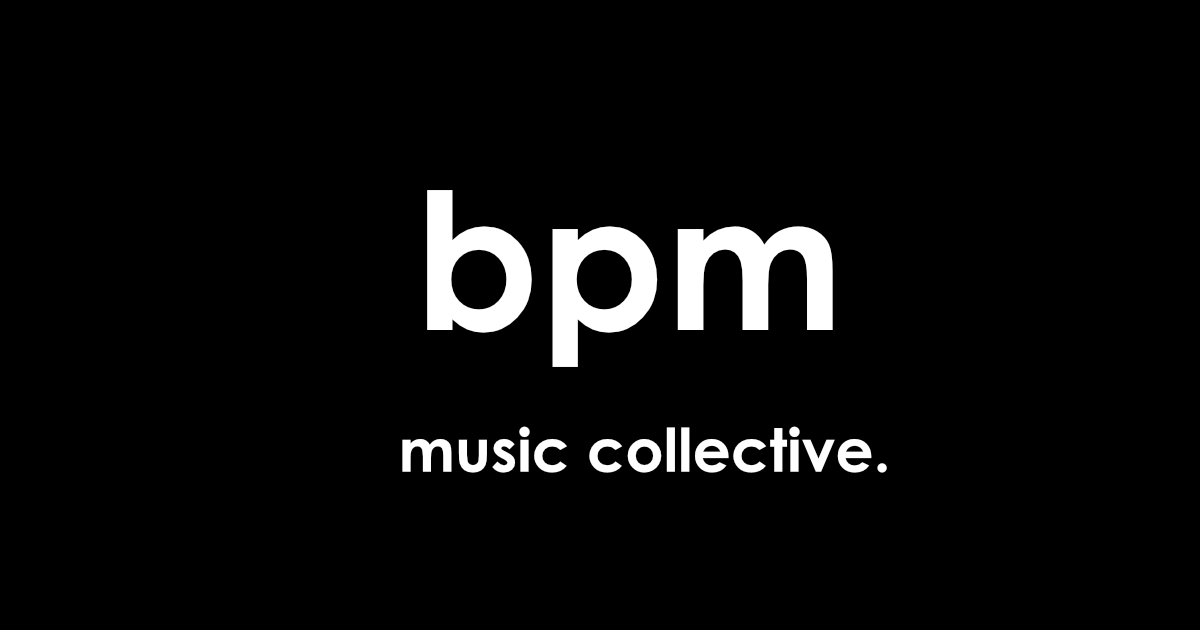
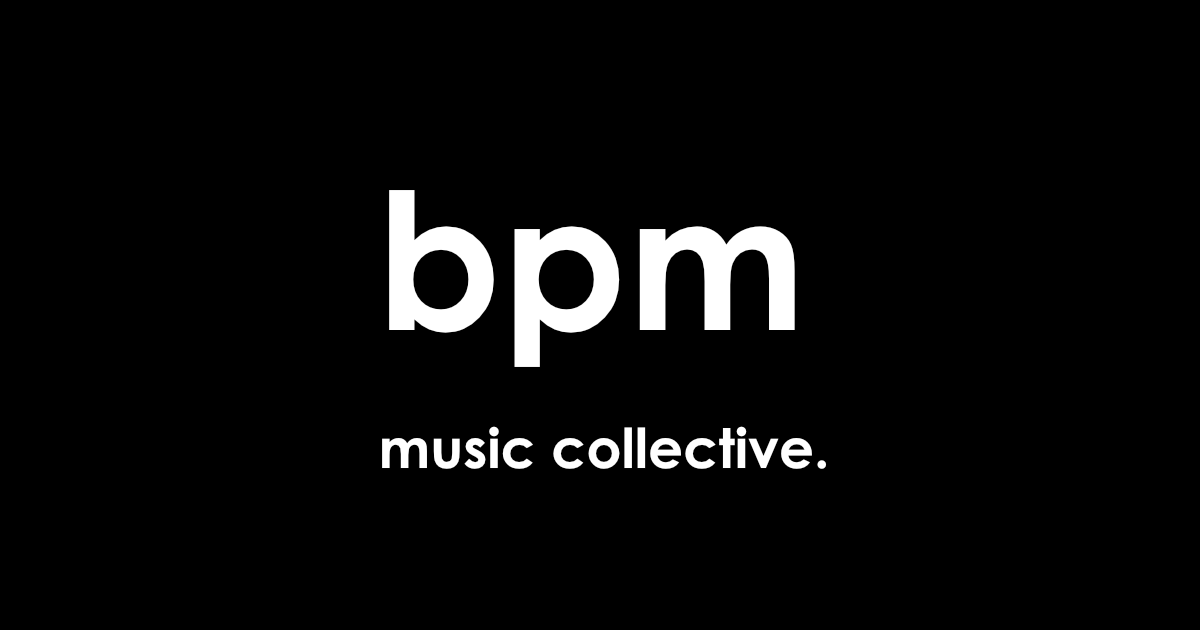
Image updates

Changed region(s): [[0.3083, 0.3016, 0.7092, 0.6032], [0.3083, 0.6635, 0.74, 0.754]]

diff --git a/index.html b/index.html
@@ -185,7 +185,7 @@
     <div id="land">
     	<h1 style="padding-top: 150px"></h1>
       <a class="scrollto" href="#concept" style="text-decoration: none; color: white">
-        <img style="height: 340px; width: 340px" src="logo.svg">
+        <img style="height: 340px; width: 340px; max-width: 340px; min-width: 340px;" src="logo.svg">
       </a>
     </div>
 
